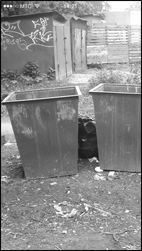
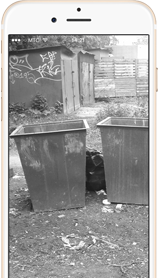
finished features block for min-width 320px

diff --git a/source/index.html b/source/index.html
@@ -75,10 +75,12 @@
       <figure class="arrow">
         <div class="arrow__left"></div>
       </figure>
-      <div class="features__wrapper">
+      <div class="row features__wrapper">
         <div class="features__item-wrapper">
           <picture>
-            <img class="feautres__img" src="" alt="">
+            <!--<source media="(min-width: 1200px)" srcset="img/Pink-logo-3@1x.png, img/Pink-logo-3@2x.png 2x">
+            <source media="(min-width: 700px)" srcset="img/Pink-logo-2@1x.png 145w, img/Pink-logo-2@2x.png 2x">-->
+            <img class="hidden-xs hidden-sm features__img" src="img/iphone-screen-1-1@1x.png" alt="screen1">
           </picture>
           <h2 class="features__name">Поднимает настроение</h2>
           <div class="features__desc">Приложение поможет вам победить осеннюю хандру и депрессию буквально в несколько
@@ -87,7 +89,7 @@
         </div>
         <div class="features__item-wrapper">
           <picture>
-            <img class="feautres__img" src="" alt="">
+            <img class="hidden-xs hidden-sm features__img" src="img/iphone-screen-1-2@1x.png" alt="screen2">
           </picture>
           <h2 class="features__name">Меняет мир вокруг вас</h2>
           <div class="features__desc">Сделайте снимок и украсьте его смайликом или текстовой подписью, чтобы усилить
@@ -96,11 +98,16 @@
         </div>
         <div class="features__item-wrapper">
           <picture>
-            <img class="feautres__img" src="" alt="">
+            <img class="hidden-xs hidden-sm features__img" src="img/iphone-screen-1-3@1x.png" alt="screen3">
           </picture>
           <h2 class="features__name">Заводите новых друзей</h2>
           <div class="features__desc">Ставьте лайки, комментируте, делитесь фотографиями с друзьями и заводите новых
           </div>
+          <picture>
+            <source media="(min-width: 700px)" srcset="img/iphone-screen-2-3@1x.png, img/iphone-screen-2-3@2x.png 2x">
+            <source media="(min-width: 320px)" srcset="img/iphone-screen-1-3@1x.png, img/iphone-screen-2-3@1x.png 2x">
+            <img class="visible-sm-block  visible-xs-block features__img" src="img/iphone-screen-1-3@1x.png" alt="screen3">
+          </picture>
         </div>
         <div class="hidden-xs features__effect">
           <h2 class="features__name features__name--effect">Эффект на 24 часа</h2>

diff --git a/source/less/blocks/app.less b/source/less/blocks/app.less
@@ -9,9 +9,12 @@
   background-image: url("../img/iphone-hand-1.png"), url("../img/background-1@1x.jpg");
   background-repeat: no-repeat, no-repeat;
   background-position: 0 45.5%, 0 0;
-  background-size: 258px 286px, 700px 730px;
+  background-size: 258px 286px, 100% 730px;
 
   .clearfix();
+  @media (min-width: @screen-xs) and (-webkit-min-device-pixel-ratio: 1.5), (min-resolution: 144dpi) {
+    background-image: url("../img/iphone-hand-1@2x.png"), url("../img/background-1@1x.jpg");
+  }
   @media (min-width: @screen-sm) {
     background-image: url("../img/iphone-hand-1@2x.png"), url("../img/background-1@1x.jpg");
     background-position: 85% 100%, 0 0;
@@ -21,6 +24,7 @@
       background-size: 724px 569px, 100% 730px;
     }
   }
+
   @media (min-width: @screen-md) {
     height: 855px;
     background-image: url("../img/iphone-hand-1@2x.png"), url("../img/background-1@2x.jpg");
@@ -31,6 +35,7 @@
       background-size: 950px 645px, 100% 855px;
     }
   }
+
   @media (min-width: @screen-lg) {
     background-image: url("../img/iphone-hand-1@3x.png"), url("../img/background-1@3x.jpg");
     background-position: 75% 100%, 0 0;
@@ -40,6 +45,7 @@
       background-size: 950px 645px, 100% 855px;
     }
   }
+
   &__title {
     position: absolute;
     top: -445px;
@@ -70,6 +76,7 @@
       line-height: 50px * 1.2;
     }
   }
+
   &__wrapper {
     position: relative;
     top: 488px;
@@ -86,6 +93,7 @@
       left: 129px;
     }
   }
+
   &__download {
     padding: 15px 35px;
     margin-top: 28px;
@@ -102,17 +110,21 @@
       line-height: 21px;
     }
   }
+
   &__download:hover {
     color: @color-pink;
     background-color: white;
   }
+
   &__download:active {
     color: #5d344c;
     background-color: white;
   }
+
   &__download:focus {
     outline: 0;
   }
+
   &__logo-wrapper {
     position: relative;
     width: 205px;
@@ -120,24 +132,28 @@
     margin: 0 auto;
     margin-bottom: 30px;
   }
+
   &__logo-apple {
     position: absolute;
     left: 0;
     width: 44px;
     height: 47px;
   }
+
   &__logo-android {
     position: absolute;
     left: 78px;
     width: 44px;
     height: 47px;
   }
+
   &__logo-microsoft {
     position: absolute;
     left: 159px;
     width: 44px;
     height: 47px;
   }
+
   &__desc {
     width: 260px;
     margin: 0 auto;

diff --git a/source/less/blocks/features.less b/source/less/blocks/features.less
@@ -46,23 +46,7 @@
     margin-left: auto;
     color: @color-menu;
   }
-  //&__desc:last-child {
-  //  position: relative;
-  //  padding-bottom: 328px;
-  //}
-  //&__desc:last-child:after {
-  //  position: absolute;
-  //  top: 430px;
-  //  right: 0;
-  //  bottom: 0;
-  //  left: 0;
-  //  display: block;
-  //  width: 158px;
-  //  height: 278px;
-  //  margin: auto;
-  //  content: '';
-  //  //background-color: @color-pink;
-  //  background-image: url('../img/screen-1-3.png');
-  //  background-repeat: no-repeat;
-  //}
+  &__img {
+    margin: 0 auto;
+  }
 }
